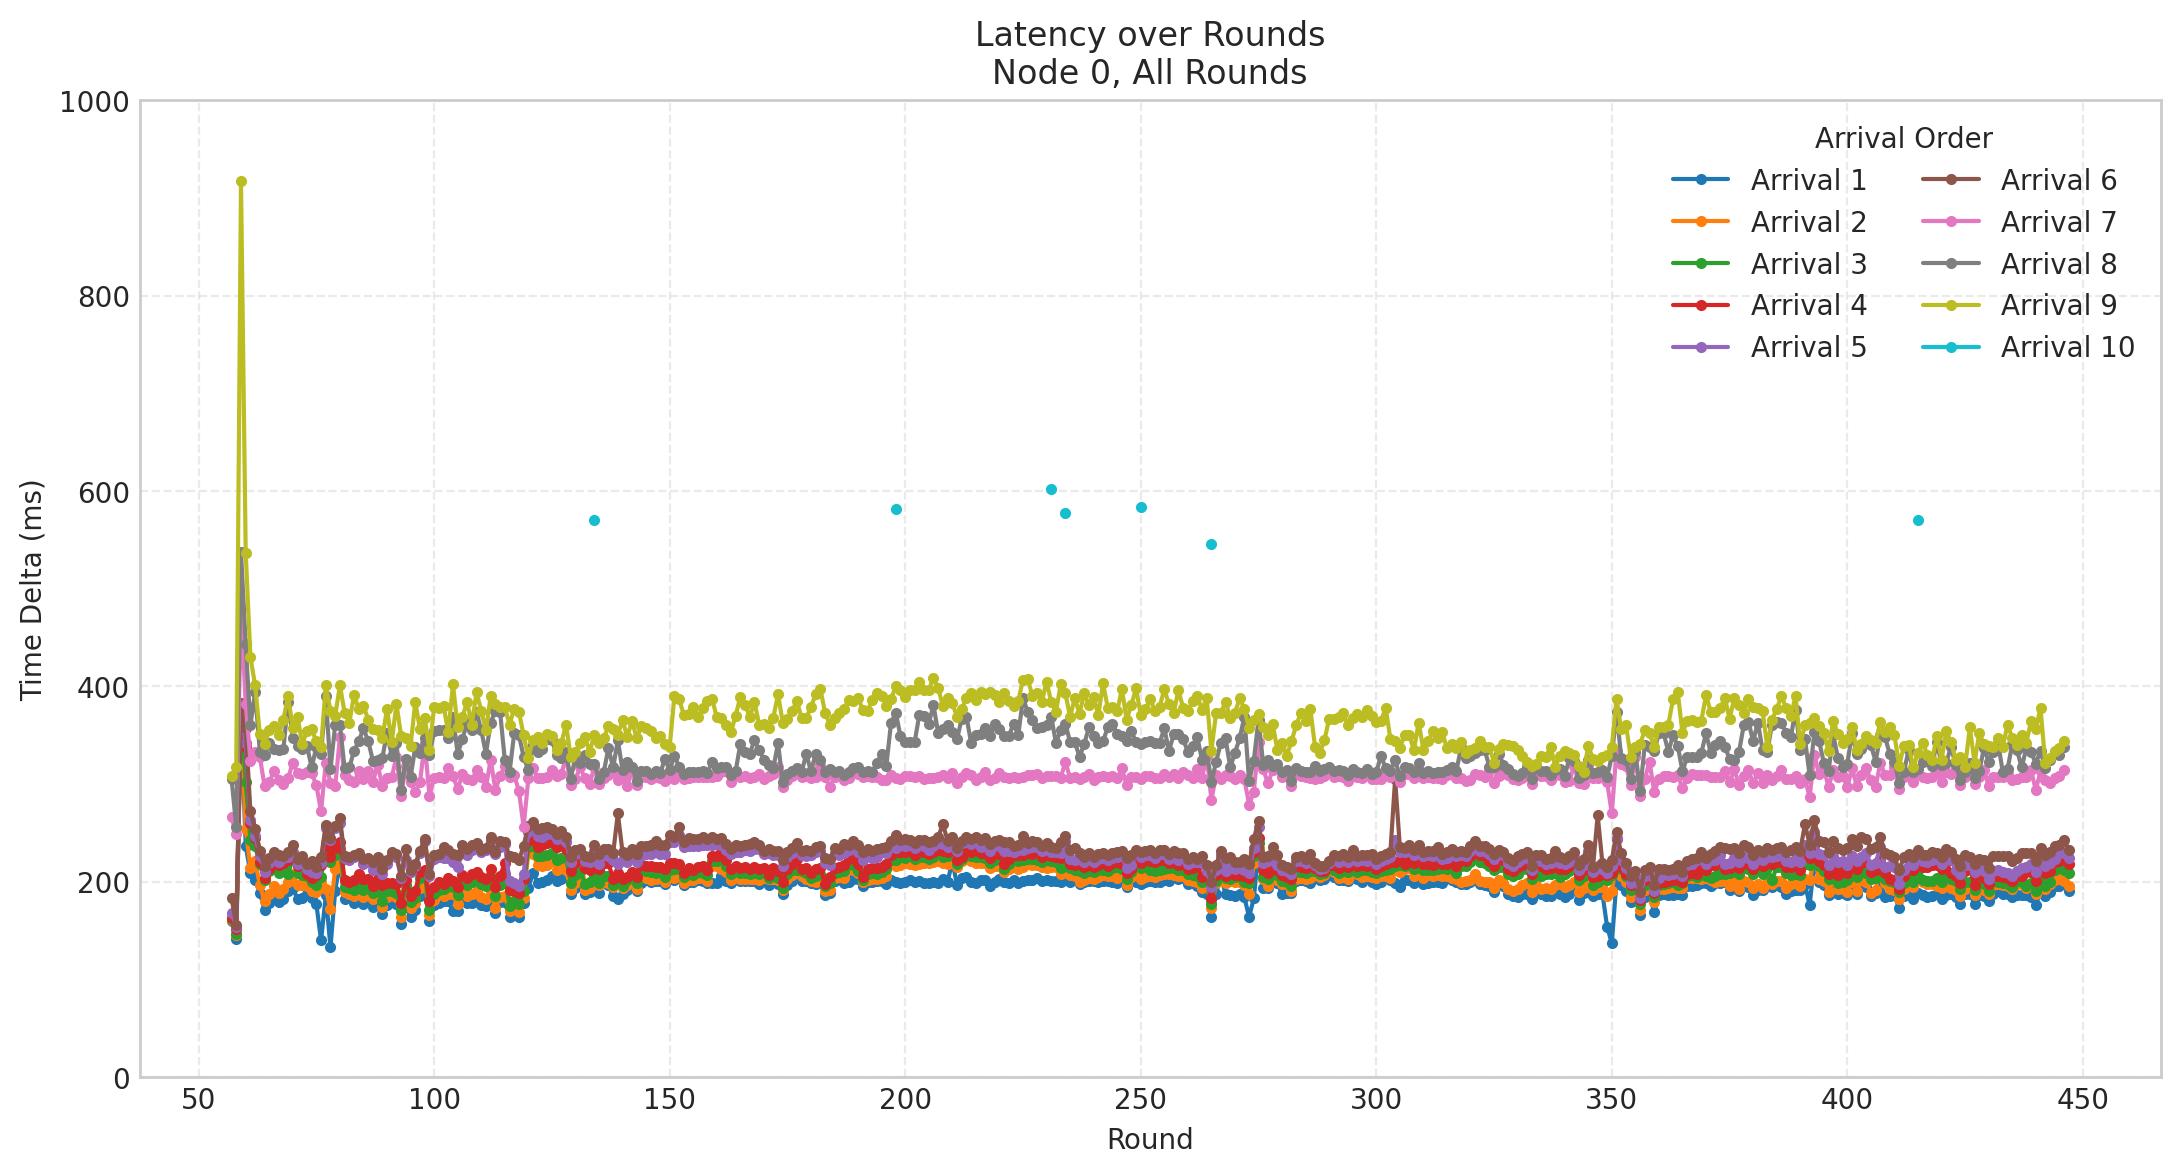
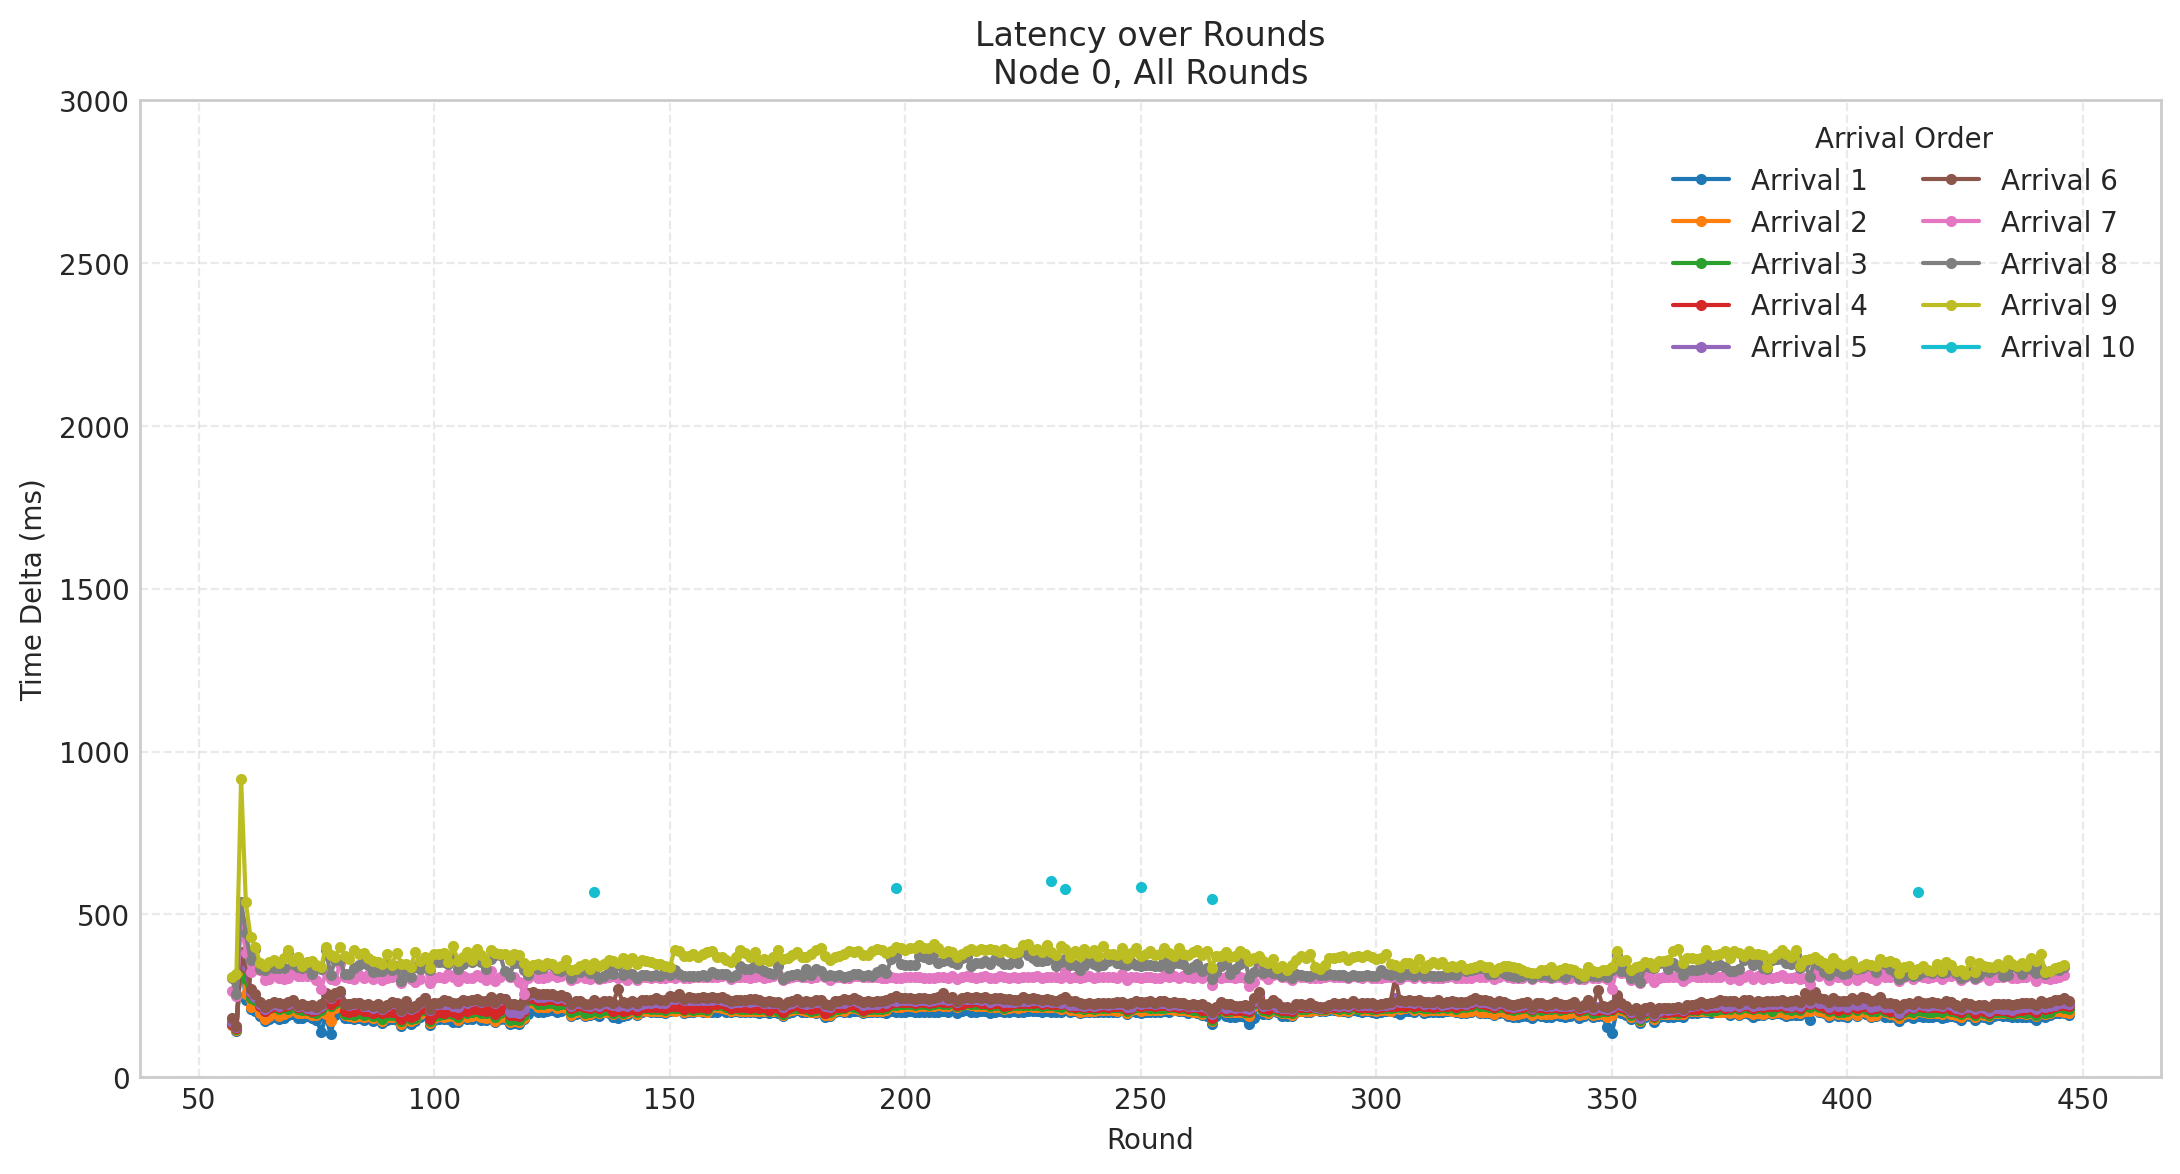
geo_bench

diff --git a/benchmark/plot_certificate_progress.py b/benchmark/plot_certificate_progress.py
@@ -255,7 +255,7 @@ def plot_latency_over_rounds(rows, cert_columns, node_id, output_path, start_rou
     )
     ax.set_xlabel("Round")
     ax.set_ylabel("Time Delta (ms)")
-    ax.set_ylim(0, 1000)
+    ax.set_ylim(0, 3000)
     ax.grid(True, linestyle="--", alpha=0.4)
     ax.legend(title="Arrival Order", ncol=2)
     fig.tight_layout()

diff --git a/benchmark/fabfile.py b/benchmark/fabfile.py
@@ -77,7 +77,7 @@ def _cloudlab_bench_params():
         # 'rate_type': 'custom',
         # 'percentages': [1, 1, 1, 1, 25, 25, 30, 30, 30, 30],
         # 'percentages': [0,0,0,0,10,10,10,1,1,1],
-        'rate': [60000],
+        'rate': [40000,50000],
         # 'extra_rate': 15000,
         'tx_size': 512,
         'duration': 240,
